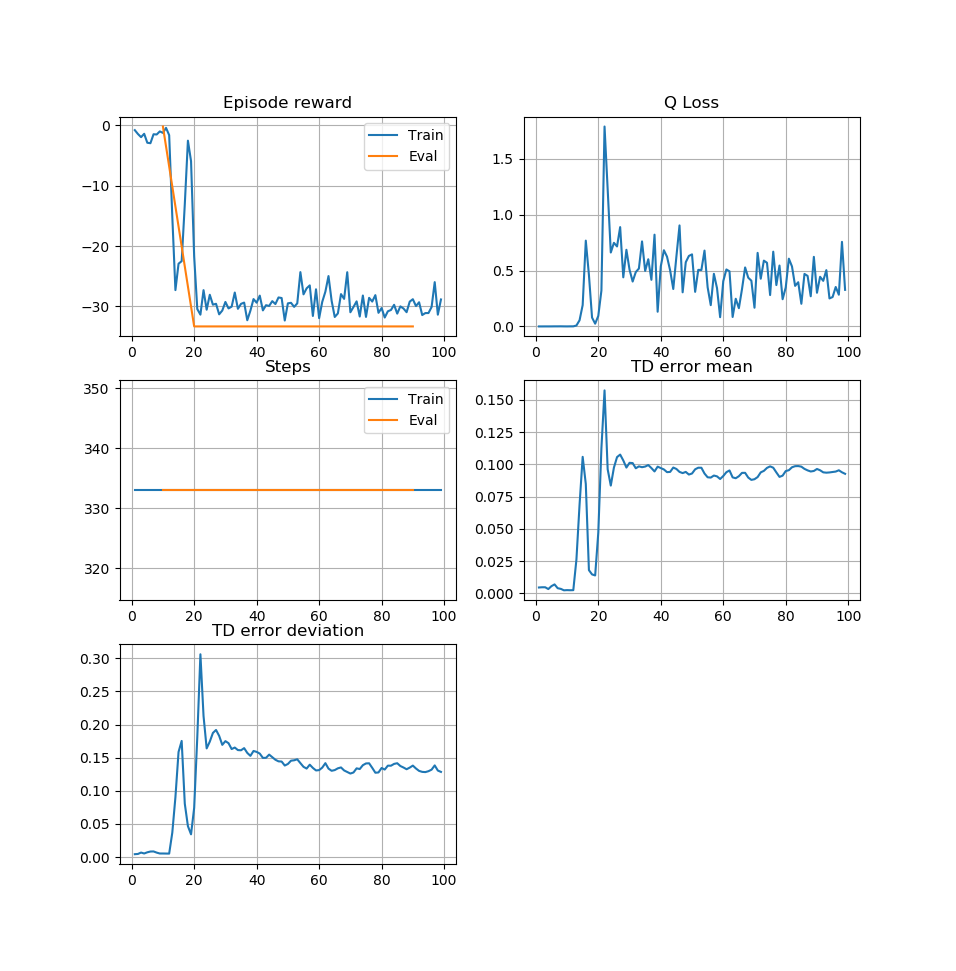
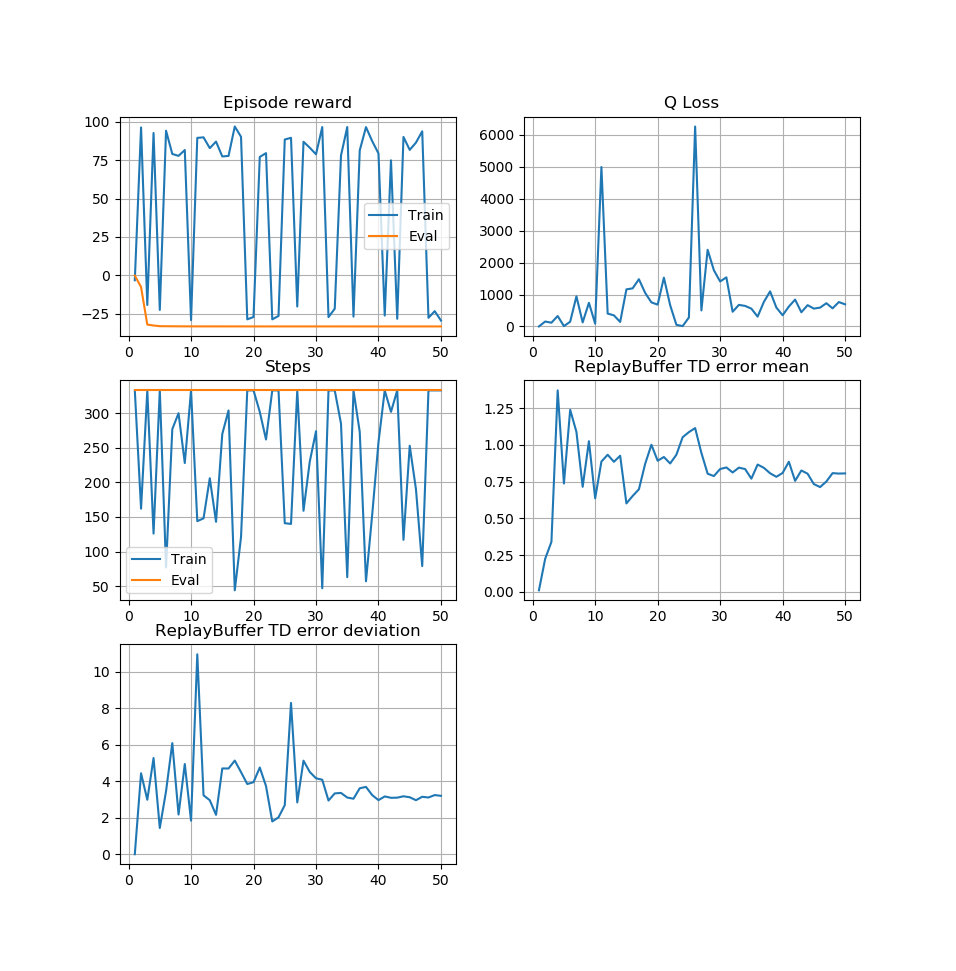
Actor is trained more often (each tick x batch_size times)

diff --git a/test.py b/test.py
@@ -9,8 +9,6 @@ from car_task import Task
 
 
 num_episodes = 1000
-save_model_every = 50
-evaluate_every = 10
 
 task = Task()
 stat = StatCollector()
@@ -24,49 +22,43 @@ with tf.Session() as sess:
 
     for i_episode in range(1, num_episodes+1):
         stat.tick()
-        total_score = 0
-        
+
+        # Train policy and Q-Network
+        total_score_train = 0
         state = agent.reset_episode() # start a new episode
         done = False
         step = 0
 
         while not done:
             step += 1
-            stat.scalar('episode_steps_train', step)
-
             action = agent.act(state, explore=True)
-
             next_state, reward, done = task.step(action)
 
             assert not np.isnan(reward)
 
             agent.step(action, reward, next_state, done)
             state = next_state
-            total_score += reward
+            total_score_train += reward
 
-        stat.scalar('episode_reward_train', total_score)
+        stat.scalar('episode_steps_train', step)
+        stat.scalar('episode_reward_train', total_score_train)
 
         # Evaluate policy
-        if i_episode % evaluate_every == 0:
-            step = 0
-            total_score = 0
-            state = agent.reset_episode() # start a new episode
-            done = False
-            while not done:
-                step += 1
-                stat.scalar('episode_steps_eval', step)
-                action = agent.act(state)
-                state, reward, done = task.step(action)
-                total_score += reward
-            stat.scalar('episode_reward_eval', total_score)
+        total_score_eval = 0
+        state = agent.reset_episode() # start a new episode
+        done = False
+        step = 0
 
+        while not done:
+            step += 1
+            action = agent.act(state)
+            state, reward, done = task.step(action)
+            total_score_eval += reward
+        stat.scalar('episode_steps_eval', step)
+        stat.scalar('episode_reward_eval', total_score_eval)
 
-        print("\rEpisode = {:4d}, score = {:7.3f}".format(i_episode, total_score), end="")
+        print("\rEpisode = {:4d}, score_train = {:7.3f}, score_test = {:7.3f}".format(i_episode, total_score_train, total_score_eval), end="")
         sys.stdout.flush()
-
-        if i_episode % save_model_every == 0:
-            saver.save(sess, "./model.ckpt")
-            plt.savefig("./graphs.png")
 
         plt.clf()
 
@@ -90,15 +82,18 @@ with tf.Session() as sess:
         plt.legend()
 
         plt.subplot(324)
-        plt.title('TD error mean')
+        plt.title('ReplayBuffer TD error mean')
         plt.plot(*stat.get_history('td_err_mean'))
         plt.grid(True)
 
         plt.subplot(325)
-        plt.title('TD error deviation')
+        plt.title('ReplayBuffer TD error deviation')
         plt.plot(*stat.get_history('td_err_deviation'))
         plt.grid(True)
 
         plt.pause(0.05)
+
+        saver.save(sess, "./model.ckpt")
+        plt.savefig("./graphs.png")
 
 env.close()

diff --git a/agents/agent.py b/agents/agent.py
@@ -20,8 +20,8 @@ class Agent():
 
         # Exploration noise process
         exploration_mu = 0
-        exploration_theta = 0.05
-        exploration_sigma = 0.05
+        exploration_theta = 0.15
+        exploration_sigma = 0.2
         self.noise = OUNoise(task.action_size, exploration_mu, exploration_theta, exploration_sigma)
 
         # Replay memory
@@ -43,8 +43,7 @@ class Agent():
 
         # Learn, if enough samples are available in memory
         if len(self.memory) > self.batch_size:
-            self._learn_q()
-            self._learn_policy(self.last_state)
+            self._learn()
 
         # Roll over last state and action
         self.last_state = next_state
@@ -63,14 +62,7 @@ class Agent():
 
         return action
 
-    def _learn_policy(self, state):
-        # Train actor model
-        actions = self.actor.act([state])
-        score = self.q_network.get_q([state], actions)[0][0]
-        self.stats.scalar('taken_action_score', score)
-        self.actor.learn(state, score)
-
-    def _learn_q(self):
+    def _learn(self):
         """Update policy and value parameters using given batch of experience tuples."""
         # Convert experience tuples to separate arrays for each element (states, actions, rewards, etc.)
         experiences, experience_indexes = self.memory.sample(self.batch_size)
@@ -91,6 +83,10 @@ class Agent():
         self.memory.update_td_err(experience_indexes, td_errs)
 
         self.memory.scrape_stats(self.stats)
+
+        # Train actor model
+        scores = self.q_network.get_q(next_states, actions_next)
+        self.actor.learn(next_states, scores)
 
     def _save_experience(self, state, action, reward, next_state, done):
         """Adds experience into ReplayBuffer. As a side effect, also learns q network on this sample."""

diff --git a/agents/policy_gradient.py b/agents/policy_gradient.py
@@ -27,12 +27,14 @@ class Policy():
         })
         return actions
 
-    def learn(self, state, score):
+    def learn(self, states, scores):
         self.sess.run(self.reset_delta_theta_op)
-        self.sess.run(self.update_delta_theta_ops, feed_dict={
-            self.state: [state],
-            self.score: score,
-        })
+        for state, score in zip(states, scores):
+            self.sess.run(self.update_delta_theta_ops, feed_dict={
+                self.state: [state],
+                self.score: score,
+                self.batch_size: len(states),
+            })
         self.sess.run(self.update_theta_ops)
         return
 
@@ -54,7 +56,8 @@ class Policy():
         thetas = tf.trainable_variables()
         grad_thetas = tf.gradients(y, thetas)
 
-        self.score = tf.placeholder(tf.float32)
+        self.score = tf.placeholder(tf.float32, name='score')
+        self.batch_size = tf.placeholder(tf.float32, name='batch_size')
 
         delta_theta_vars = []
         update_delta_theta_ops = []
@@ -69,7 +72,7 @@ class Policy():
                         trainable=False)
                 delta_theta_vars.append(delta_theta_var)
 
-                delta_theta = grad_theta * self.score * self.alpha
+                delta_theta = grad_theta * self.score * self.alpha / self.batch_size
                 update_delta_theta_op = tf.assign_add(delta_theta_var, delta_theta)
                 update_delta_theta_ops.append(update_delta_theta_op)
 

diff --git a/run_learned_agent.py b/run_learned_agent.py
@@ -1,4 +1,3 @@
-import sys
 import tensorflow as tf
 from time import sleep
 
@@ -9,7 +8,7 @@ from car_task import Task
 task = Task()
 stat = StatCollector()
 
-model_file = sys.argv[1]
+model_file = 'model.ckpt'
 # show what agent has learned
 
 with tf.Session() as sess:
@@ -18,14 +17,18 @@ with tf.Session() as sess:
 
     done = False
     state = agent.reset_episode() # start a new episode
+    total_reward = 0
+    steps = 0
 
     while not done:
+        steps += 1
         task.render()
         sleep(0.01)
         action = agent.act(state)
-        _, _, done = task.step(action) 
-        if done:
-            break
-
+        state, reward, done = task.step(action)
+        total_reward += reward
 
 task.close()
+
+print("Total reward:", total_reward)
+print("Steps:", steps)

diff --git a/agents/ou_noise.py b/agents/ou_noise.py
@@ -20,4 +20,7 @@ class OUNoise:
         x = self.state
         dx = self.theta * (self.mu - x) + self.sigma * np.random.randn(len(x))
         self.state = x + dx
+
+        assert not np.isnan(self.state)
+
         return self.state
